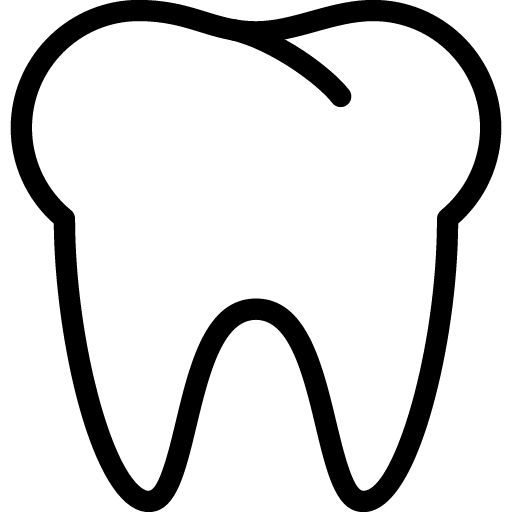
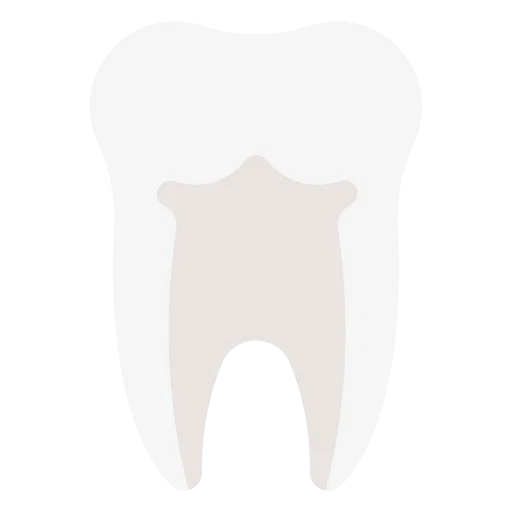
Improved footer design

Changed region(s): [[0.0, 0.0, 1.0, 1.0]]

diff --git a/src/components/Footer.jsx b/src/components/Footer.jsx
@@ -1,9 +1,12 @@
+import Logo from "../assets/logo-footer.png";
+
 function Footer() {
     return (
-        <footer className="bg-slate-50 border-t border-slate-200">
+        <footer className="bg-pale-sky/50 border-t border-charcoal/10">
             <div className="max-w-7xl mx-auto px-6 py-8 flex flex-col md:flex-row items-center justify-between gap-3">
-                <h3 className="font-semibold text-[20px]"> Navy Dental </h3>
-                <p className="text-sm text-charcoal/80"> © 2026 Navy Dental • Designed by Yassmine Senouci</p>
+                <img src={Logo} alt="Dentist Website Logo" className="h-12 w-auto object-contain scale-110" />
+
+                <p className="text-center mt-2 !text-[18px] lg:!text-[20px] text-charcoal/80"> © 2026 Navy Dental • Designed by Yassmine Senouci</p>
             </div>
         </footer>
     );

diff --git a/index.html b/index.html
@@ -9,9 +9,9 @@
    
    
     <meta charset="UTF-8" />
-    <link rel="icon" type="image/svg+xml" href="/favicon.svg" />
+    <link rel="icon" type="image/svg+xml" href="src/assets/tooth.png" />
     <meta name="viewport" content="width=device-width, initial-scale=1.0" />
-    <title>dentist-site</title>
+    <title>Navy Dental</title>
 
   </head>
  
